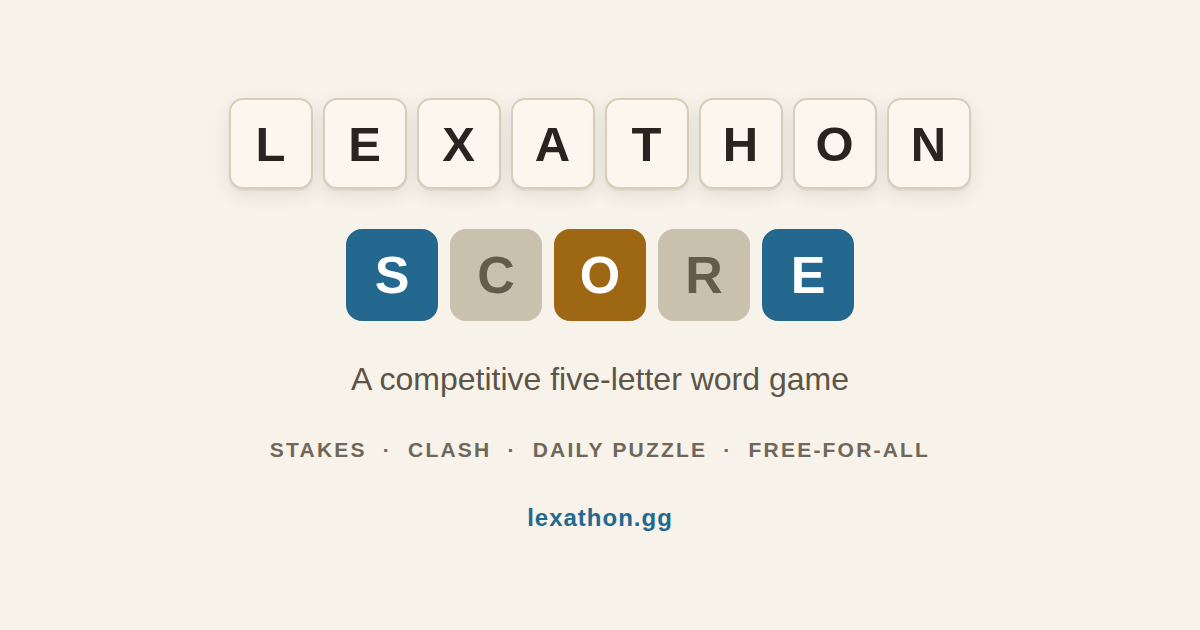
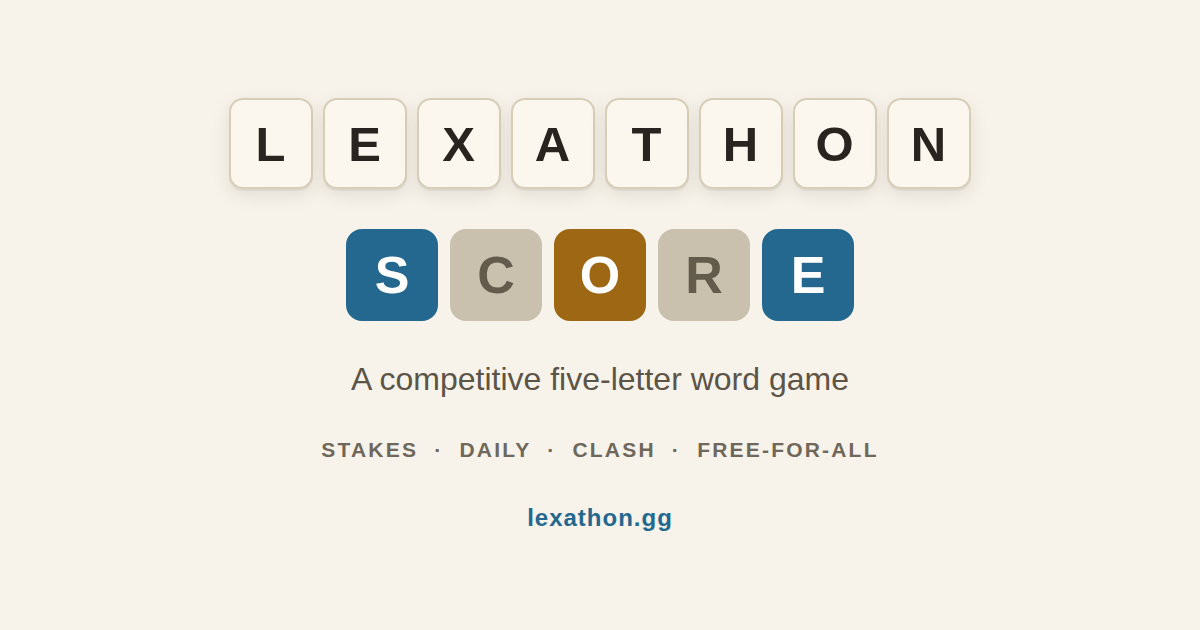
Make the mode strip on the baked images read like the nav
Two fixes to the line of mode names on the share card and the X header.

"Daily Puzzle" becomes "Daily". The rename turned that strip into
STAKES - CLASH - DAILY PUZZLE - FREE-FOR-ALL, but the strip is a picture of
the nav, and the nav button says DAILY. "Daily Puzzle" is the noun phrase for
prose, where a sentence needs a thing to refer to; a button label is not that.

And Clash and the Daily were transposed, which predates the rename: the strip
read Endless - Clash - Gauntlet - Free-For-All while the nav has always been
ENDLESS - GAUNTLET - CLASH - FFA. Anyone comparing the card to the site saw
two different orders. Both read in the MODES table's order now, which is also
the homepage blurb's order.

Free-For-All stays spelled out rather than FFA: the nav abbreviates because
four buttons share one row at 10px, and neither of these images has that
problem.

og-card and all four headers rebuilt; the card re-stamped its version across
36 files.

Claude-Session: https://claude.ai/code/session_01EJyeWJF9KgdQZHrzeTrfz6

Changed region(s): [[0.2158, 0.6937, 0.7708, 0.7238]]

diff --git a/index.html b/index.html
@@ -21,7 +21,7 @@
     <meta property="og:url" content="https://lexathon.gg/">
     <meta property="og:title" content="An endless, competitive word game">
     <meta property="og:description" content="Doesn't stop after one puzzle a day: endless 5-letter runs, a daily seven-word gauntlet, and live multiplayer. Free, no install, no account.">
-    <meta property="og:image" content="https://lexathon.gg/og-card.png?v=5d0d6521">
+    <meta property="og:image" content="https://lexathon.gg/og-card.png?v=238a866b">
     <meta property="og:image:width" content="1200">
     <meta property="og:image:height" content="630">
     <meta property="og:image:alt" content="Lexathon - a competitive five-letter word game. A row of letter tiles spelling RIVAL, two blue, one amber.">
@@ -29,7 +29,7 @@
     <meta name="twitter:card" content="summary_large_image">
     <meta name="twitter:title" content="An endless, competitive word game">
     <meta name="twitter:description" content="Doesn't stop after one puzzle a day: endless 5-letter runs, a daily seven-word gauntlet, and live multiplayer. Free, no install, no account.">
-    <meta name="twitter:image" content="https://lexathon.gg/og-card.png?v=5d0d6521">
+    <meta name="twitter:image" content="https://lexathon.gg/og-card.png?v=238a866b">
 
     <!-- Google Search Console ownership verification. Must stay on the
          homepage permanently — Search Console re-checks it periodically and
@@ -75,7 +75,7 @@
       "name": "Lexathon",
       "url": "https://lexathon.gg",
       "description": "A free five-letter word game with endless solo runs, a daily seven-word gauntlet, 1v1 races and six-player matches.",
-      "image": "https://lexathon.gg/og-card.png?v=5d0d6521",
+      "image": "https://lexathon.gg/og-card.png?v=238a866b",
       "genre": ["Word game", "Puzzle"],
       "applicationCategory": "Game",
       "gamePlatform": "Web browser",

diff --git a/gauntlet/2026-10-11/index.html b/gauntlet/2026-10-11/index.html
@@ -16,14 +16,14 @@
     <meta property="og:url" content="https://lexathon.gg/gauntlet/2026-10-11/">
     <meta property="og:title" content="Lexathon Daily Puzzle #40 — 11 October 2026">
     <meta property="og:description" content="All 10 words from Lexathon Daily Puzzle #40 (11 October 2026), with the final standings, how many guesses each word took, and which one caught the most people out.">
-    <meta property="og:image" content="https://lexathon.gg/og-card.png?v=5d0d6521">
+    <meta property="og:image" content="https://lexathon.gg/og-card.png?v=238a866b">
     <meta property="og:image:width" content="1200">
     <meta property="og:image:height" content="630">
     <meta property="og:image:alt" content="Lexathon - a competitive five-letter word game.">
     <meta name="twitter:card" content="summary_large_image">
     <meta name="twitter:title" content="Lexathon Daily Puzzle #40 — 11 October 2026">
     <meta name="twitter:description" content="All 10 words from Lexathon Daily Puzzle #40 (11 October 2026), with the final standings, how many guesses each word took, and which one caught the most people out.">
-    <meta name="twitter:image" content="https://lexathon.gg/og-card.png?v=5d0d6521">
+    <meta name="twitter:image" content="https://lexathon.gg/og-card.png?v=238a866b">
     <link rel="icon" href="/favicon.ico" sizes="32x32">
     <link rel="icon" type="image/png" sizes="32x32" href="/favicon-32.png">
     <style>

diff --git a/gauntlet/2026-10-01/index.html b/gauntlet/2026-10-01/index.html
@@ -16,14 +16,14 @@
     <meta property="og:url" content="https://lexathon.gg/gauntlet/2026-10-01/">
     <meta property="og:title" content="Lexathon Daily Puzzle #30 — 1 October 2026">
     <meta property="og:description" content="All ten words from Lexathon Daily Puzzle #30 (1 October 2026), with the final standings, how many guesses each word took, and which one caught the most people out.">
-    <meta property="og:image" content="https://lexathon.gg/og-card.png?v=5d0d6521">
+    <meta property="og:image" content="https://lexathon.gg/og-card.png?v=238a866b">
     <meta property="og:image:width" content="1200">
     <meta property="og:image:height" content="630">
     <meta property="og:image:alt" content="Lexathon - a competitive five-letter word game.">
     <meta name="twitter:card" content="summary_large_image">
     <meta name="twitter:title" content="Lexathon Daily Puzzle #30 — 1 October 2026">
     <meta name="twitter:description" content="All ten words from Lexathon Daily Puzzle #30 (1 October 2026), with the final standings, how many guesses each word took, and which one caught the most people out.">
-    <meta name="twitter:image" content="https://lexathon.gg/og-card.png?v=5d0d6521">
+    <meta name="twitter:image" content="https://lexathon.gg/og-card.png?v=238a866b">
     <link rel="icon" href="/favicon.ico" sizes="32x32">
     <link rel="icon" type="image/png" sizes="32x32" href="/favicon-32.png">
     <style>

diff --git a/gauntlet/2026-10-02/index.html b/gauntlet/2026-10-02/index.html
@@ -16,14 +16,14 @@
     <meta property="og:url" content="https://lexathon.gg/gauntlet/2026-10-02/">
     <meta property="og:title" content="Lexathon Daily Puzzle #31 — 2 October 2026">
     <meta property="og:description" content="All ten words from Lexathon Daily Puzzle #31 (2 October 2026), with the final standings, how many guesses each word took, and which one caught the most people out.">
-    <meta property="og:image" content="https://lexathon.gg/og-card.png?v=5d0d6521">
+    <meta property="og:image" content="https://lexathon.gg/og-card.png?v=238a866b">
     <meta property="og:image:width" content="1200">
     <meta property="og:image:height" content="630">
     <meta property="og:image:alt" content="Lexathon - a competitive five-letter word game.">
     <meta name="twitter:card" content="summary_large_image">
     <meta name="twitter:title" content="Lexathon Daily Puzzle #31 — 2 October 2026">
     <meta name="twitter:description" content="All ten words from Lexathon Daily Puzzle #31 (2 October 2026), with the final standings, how many guesses each word took, and which one caught the most people out.">
-    <meta name="twitter:image" content="https://lexathon.gg/og-card.png?v=5d0d6521">
+    <meta name="twitter:image" content="https://lexathon.gg/og-card.png?v=238a866b">
     <link rel="icon" href="/favicon.ico" sizes="32x32">
     <link rel="icon" type="image/png" sizes="32x32" href="/favicon-32.png">
     <style>

diff --git a/gauntlet/2026-10-03/index.html b/gauntlet/2026-10-03/index.html
@@ -16,14 +16,14 @@
     <meta property="og:url" content="https://lexathon.gg/gauntlet/2026-10-03/">
     <meta property="og:title" content="Lexathon Daily Puzzle #32 — 3 October 2026">
     <meta property="og:description" content="All ten words from Lexathon Daily Puzzle #32 (3 October 2026), with the final standings, how many guesses each word took, and which one caught the most people out.">
-    <meta property="og:image" content="https://lexathon.gg/og-card.png?v=5d0d6521">
+    <meta property="og:image" content="https://lexathon.gg/og-card.png?v=238a866b">
     <meta property="og:image:width" content="1200">
     <meta property="og:image:height" content="630">
     <meta property="og:image:alt" content="Lexathon - a competitive five-letter word game.">
     <meta name="twitter:card" content="summary_large_image">
     <meta name="twitter:title" content="Lexathon Daily Puzzle #32 — 3 October 2026">
     <meta name="twitter:description" content="All ten words from Lexathon Daily Puzzle #32 (3 October 2026), with the final standings, how many guesses each word took, and which one caught the most people out.">
-    <meta name="twitter:image" content="https://lexathon.gg/og-card.png?v=5d0d6521">
+    <meta name="twitter:image" content="https://lexathon.gg/og-card.png?v=238a866b">
     <link rel="icon" href="/favicon.ico" sizes="32x32">
     <link rel="icon" type="image/png" sizes="32x32" href="/favicon-32.png">
     <style>

diff --git a/gauntlet/2026-10-04/index.html b/gauntlet/2026-10-04/index.html
@@ -16,14 +16,14 @@
     <meta property="og:url" content="https://lexathon.gg/gauntlet/2026-10-04/">
     <meta property="og:title" content="Lexathon Daily Puzzle #33 — 4 October 2026">
     <meta property="og:description" content="All ten words from Lexathon Daily Puzzle #33 (4 October 2026), with the final standings, how many guesses each word took, and which one caught the most people out.">
-    <meta property="og:image" content="https://lexathon.gg/og-card.png?v=5d0d6521">
+    <meta property="og:image" content="https://lexathon.gg/og-card.png?v=238a866b">
     <meta property="og:image:width" content="1200">
     <meta property="og:image:height" content="630">
     <meta property="og:image:alt" content="Lexathon - a competitive five-letter word game.">
     <meta name="twitter:card" content="summary_large_image">
     <meta name="twitter:title" content="Lexathon Daily Puzzle #33 — 4 October 2026">
     <meta name="twitter:description" content="All ten words from Lexathon Daily Puzzle #33 (4 October 2026), with the final standings, how many guesses each word took, and which one caught the most people out.">
-    <meta name="twitter:image" content="https://lexathon.gg/og-card.png?v=5d0d6521">
+    <meta name="twitter:image" content="https://lexathon.gg/og-card.png?v=238a866b">
     <link rel="icon" href="/favicon.ico" sizes="32x32">
     <link rel="icon" type="image/png" sizes="32x32" href="/favicon-32.png">
     <style>

diff --git a/gauntlet/2026-10-05/index.html b/gauntlet/2026-10-05/index.html
@@ -16,14 +16,14 @@
     <meta property="og:url" content="https://lexathon.gg/gauntlet/2026-10-05/">
     <meta property="og:title" content="Lexathon Daily Puzzle #34 — 5 October 2026">
     <meta property="og:description" content="All ten words from Lexathon Daily Puzzle #34 (5 October 2026), with the final standings, how many guesses each word took, and which one caught the most people out.">
-    <meta property="og:image" content="https://lexathon.gg/og-card.png?v=5d0d6521">
+    <meta property="og:image" content="https://lexathon.gg/og-card.png?v=238a866b">
     <meta property="og:image:width" content="1200">
     <meta property="og:image:height" content="630">
     <meta property="og:image:alt" content="Lexathon - a competitive five-letter word game.">
     <meta name="twitter:card" content="summary_large_image">
     <meta name="twitter:title" content="Lexathon Daily Puzzle #34 — 5 October 2026">
     <meta name="twitter:description" content="All ten words from Lexathon Daily Puzzle #34 (5 October 2026), with the final standings, how many guesses each word took, and which one caught the most people out.">
-    <meta name="twitter:image" content="https://lexathon.gg/og-card.png?v=5d0d6521">
+    <meta name="twitter:image" content="https://lexathon.gg/og-card.png?v=238a866b">
     <link rel="icon" href="/favicon.ico" sizes="32x32">
     <link rel="icon" type="image/png" sizes="32x32" href="/favicon-32.png">
     <style>

diff --git a/gauntlet/2026-10-06/index.html b/gauntlet/2026-10-06/index.html
@@ -16,14 +16,14 @@
     <meta property="og:url" content="https://lexathon.gg/gauntlet/2026-10-06/">
     <meta property="og:title" content="Lexathon Daily Puzzle #35 — 6 October 2026">
     <meta property="og:description" content="All ten words from Lexathon Daily Puzzle #35 (6 October 2026), with the final standings, how many guesses each word took, and which one caught the most people out.">
-    <meta property="og:image" content="https://lexathon.gg/og-card.png?v=5d0d6521">
+    <meta property="og:image" content="https://lexathon.gg/og-card.png?v=238a866b">
     <meta property="og:image:width" content="1200">
     <meta property="og:image:height" content="630">
     <meta property="og:image:alt" content="Lexathon - a competitive five-letter word game.">
     <meta name="twitter:card" content="summary_large_image">
     <meta name="twitter:title" content="Lexathon Daily Puzzle #35 — 6 October 2026">
     <meta name="twitter:description" content="All ten words from Lexathon Daily Puzzle #35 (6 October 2026), with the final standings, how many guesses each word took, and which one caught the most people out.">
-    <meta name="twitter:image" content="https://lexathon.gg/og-card.png?v=5d0d6521">
+    <meta name="twitter:image" content="https://lexathon.gg/og-card.png?v=238a866b">
     <link rel="icon" href="/favicon.ico" sizes="32x32">
     <link rel="icon" type="image/png" sizes="32x32" href="/favicon-32.png">
     <style>

diff --git a/gauntlet/2026-10-12/index.html b/gauntlet/2026-10-12/index.html
@@ -16,14 +16,14 @@
     <meta property="og:url" content="https://lexathon.gg/gauntlet/2026-10-12/">
     <meta property="og:title" content="Lexathon Daily Puzzle #41 — 12 October 2026">
     <meta property="og:description" content="All 7 words from Lexathon Daily Puzzle #41 (12 October 2026), with the final standings, how many guesses each word took, and which one caught the most people out.">
-    <meta property="og:image" content="https://lexathon.gg/og-card.png?v=5d0d6521">
+    <meta property="og:image" content="https://lexathon.gg/og-card.png?v=238a866b">
     <meta property="og:image:width" content="1200">
     <meta property="og:image:height" content="630">
     <meta property="og:image:alt" content="Lexathon - a competitive five-letter word game.">
     <meta name="twitter:card" content="summary_large_image">
     <meta name="twitter:title" content="Lexathon Daily Puzzle #41 — 12 October 2026">
     <meta name="twitter:description" content="All 7 words from Lexathon Daily Puzzle #41 (12 October 2026), with the final standings, how many guesses each word took, and which one caught the most people out.">
-    <meta name="twitter:image" content="https://lexathon.gg/og-card.png?v=5d0d6521">
+    <meta name="twitter:image" content="https://lexathon.gg/og-card.png?v=238a866b">
     <link rel="icon" href="/favicon.ico" sizes="32x32">
     <link rel="icon" type="image/png" sizes="32x32" href="/favicon-32.png">
     <style>

diff --git a/gauntlet/2026-10-13/index.html b/gauntlet/2026-10-13/index.html
@@ -16,14 +16,14 @@
     <meta property="og:url" content="https://lexathon.gg/gauntlet/2026-10-13/">
     <meta property="og:title" content="Lexathon Daily Puzzle #42 — 13 October 2026">
     <meta property="og:description" content="All 7 words from Lexathon Daily Puzzle #42 (13 October 2026), with the final standings, how many guesses each word took, and which one caught the most people out.">
-    <meta property="og:image" content="https://lexathon.gg/og-card.png?v=5d0d6521">
+    <meta property="og:image" content="https://lexathon.gg/og-card.png?v=238a866b">
     <meta property="og:image:width" content="1200">
     <meta property="og:image:height" content="630">
     <meta property="og:image:alt" content="Lexathon - a competitive five-letter word game.">
     <meta name="twitter:card" content="summary_large_image">
     <meta name="twitter:title" content="Lexathon Daily Puzzle #42 — 13 October 2026">
     <meta name="twitter:description" content="All 7 words from Lexathon Daily Puzzle #42 (13 October 2026), with the final standings, how many guesses each word took, and which one caught the most people out.">
-    <meta name="twitter:image" content="https://lexathon.gg/og-card.png?v=5d0d6521">
+    <meta name="twitter:image" content="https://lexathon.gg/og-card.png?v=238a866b">
     <link rel="icon" href="/favicon.ico" sizes="32x32">
     <link rel="icon" type="image/png" sizes="32x32" href="/favicon-32.png">
     <style>

diff --git a/gauntlet/2026-10-14/index.html b/gauntlet/2026-10-14/index.html
@@ -16,14 +16,14 @@
     <meta property="og:url" content="https://lexathon.gg/gauntlet/2026-10-14/">
     <meta property="og:title" content="Lexathon Daily Puzzle #43 — 14 October 2026">
     <meta property="og:description" content="All 7 words from Lexathon Daily Puzzle #43 (14 October 2026), with the final standings, how many guesses each word took, and which one caught the most people out.">
-    <meta property="og:image" content="https://lexathon.gg/og-card.png?v=5d0d6521">
+    <meta property="og:image" content="https://lexathon.gg/og-card.png?v=238a866b">
     <meta property="og:image:width" content="1200">
     <meta property="og:image:height" content="630">
     <meta property="og:image:alt" content="Lexathon - a competitive five-letter word game.">
     <meta name="twitter:card" content="summary_large_image">
     <meta name="twitter:title" content="Lexathon Daily Puzzle #43 — 14 October 2026">
     <meta name="twitter:description" content="All 7 words from Lexathon Daily Puzzle #43 (14 October 2026), with the final standings, how many guesses each word took, and which one caught the most people out.">
-    <meta name="twitter:image" content="https://lexathon.gg/og-card.png?v=5d0d6521">
+    <meta name="twitter:image" content="https://lexathon.gg/og-card.png?v=238a866b">
     <link rel="icon" href="/favicon.ico" sizes="32x32">
     <link rel="icon" type="image/png" sizes="32x32" href="/favicon-32.png">
     <style>

diff --git a/gauntlet/2026-10-15/index.html b/gauntlet/2026-10-15/index.html
@@ -16,14 +16,14 @@
     <meta property="og:url" content="https://lexathon.gg/gauntlet/2026-10-15/">
     <meta property="og:title" content="Lexathon Daily Puzzle #44 — 15 October 2026">
     <meta property="og:description" content="All 7 words from Lexathon Daily Puzzle #44 (15 October 2026), with the final standings, how many guesses each word took, and which one caught the most people out.">
-    <meta property="og:image" content="https://lexathon.gg/og-card.png?v=5d0d6521">
+    <meta property="og:image" content="https://lexathon.gg/og-card.png?v=238a866b">
     <meta property="og:image:width" content="1200">
     <meta property="og:image:height" content="630">
     <meta property="og:image:alt" content="Lexathon - a competitive five-letter word game.">
     <meta name="twitter:card" content="summary_large_image">
     <meta name="twitter:title" content="Lexathon Daily Puzzle #44 — 15 October 2026">
     <meta name="twitter:description" content="All 7 words from Lexathon Daily Puzzle #44 (15 October 2026), with the final standings, how many guesses each word took, and which one caught the most people out.">
-    <meta name="twitter:image" content="https://lexathon.gg/og-card.png?v=5d0d6521">
+    <meta name="twitter:image" content="https://lexathon.gg/og-card.png?v=238a866b">
     <link rel="icon" href="/favicon.ico" sizes="32x32">
     <link rel="icon" type="image/png" sizes="32x32" href="/favicon-32.png">
     <style>
